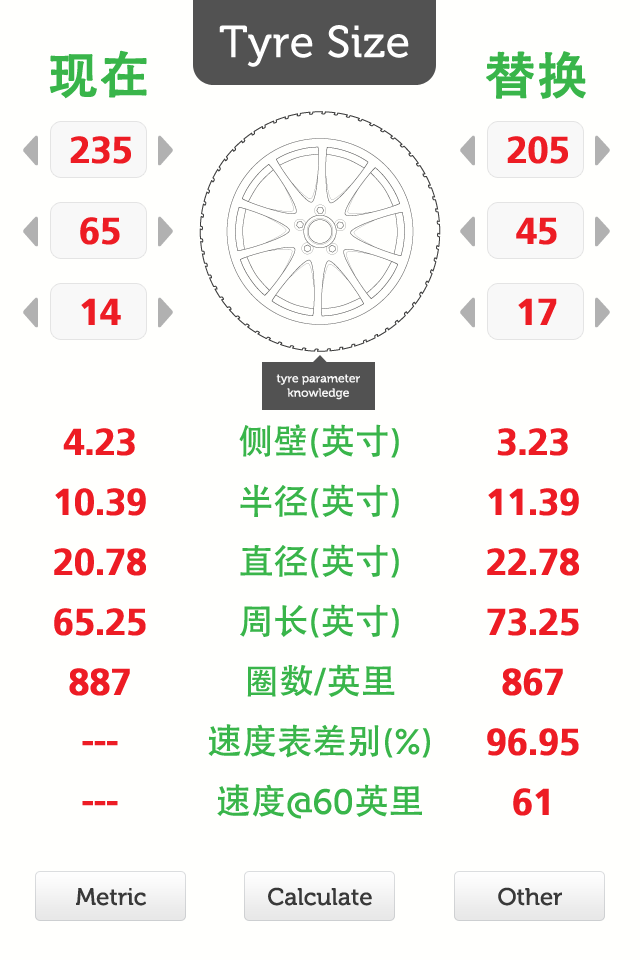
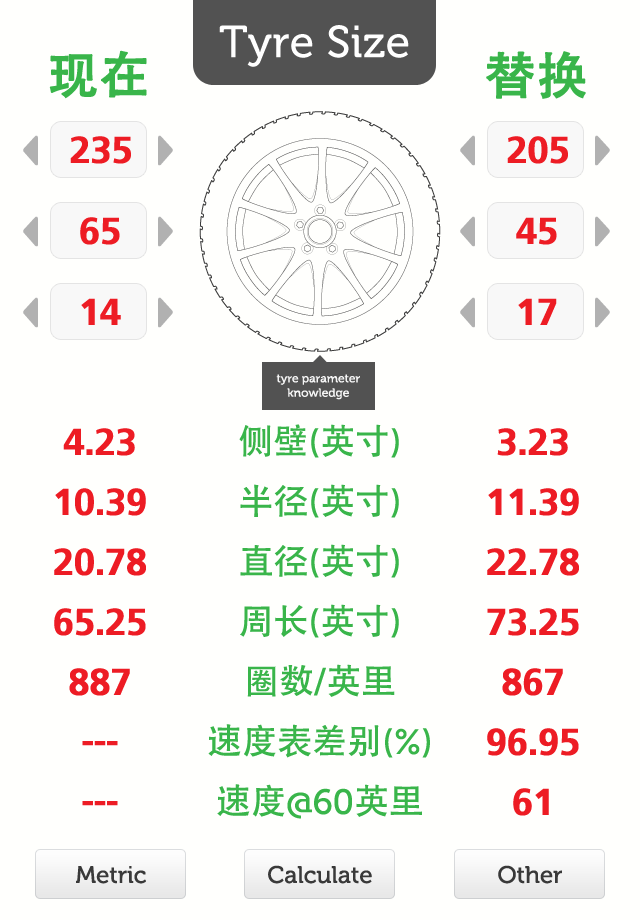
demo version

diff --git a/tyresize/ViewController/MainViewController.m b/tyresize/ViewController/MainViewController.m
@@ -50,7 +50,7 @@
 {
     [super viewWillAppear:animated];
     [self.navigationController setNavigationBarHidden:YES animated:animated];
-    self.tempImage.frame = CGRectMake(0, 0, 320, 480);
+    self.tempImage.frame = CGRectMake(0, 0, 320, 460);
     [self.button1 setFrame:CGRectMake(90, 50, 135, 160)];
     [self.button1 addTarget:self action:@selector(linkAction:) forControlEvents:UIControlEventTouchUpInside];
 }
